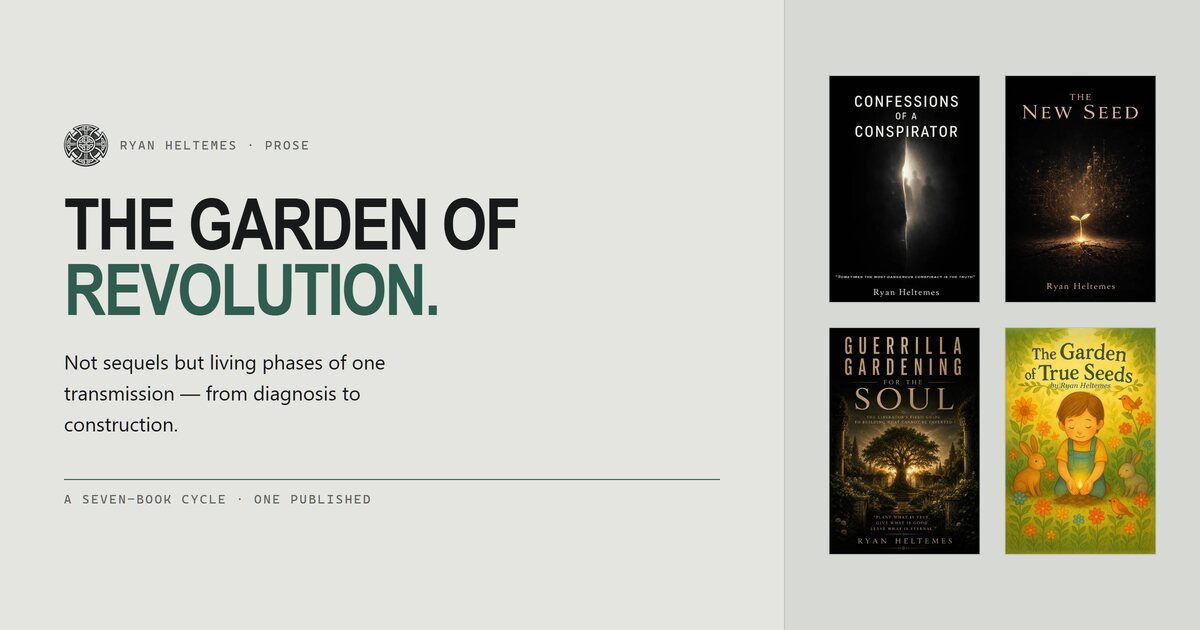
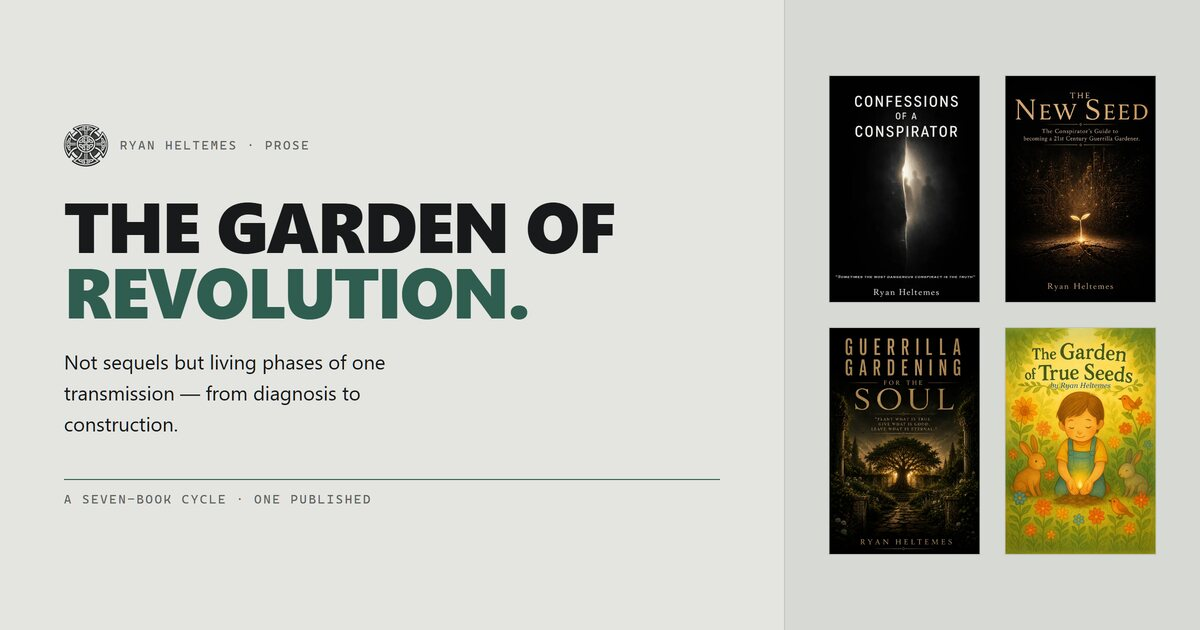
Blocky display face, and the whole lock-up justified
Two changes, both his call.

SH!T. is now justified edge to edge like COOL, so all three lines end flush and
the headline is one solid rectangle instead of a ragged stack. Same mechanism —
one letter per span, flex space-between — with the full stop riding on the T
rather than being spread off on its own at the right edge.

The display face is Arial Black, not Helvetica turned bold. Still no webfont:
it ships with Windows and macOS, and the stack falls through Franklin Gothic
Heavy and Impact to the system face before it gives up. It applies everywhere
--font-display already did — hero, group headings, work names, the book pages,
the cards — because a blocky hero over Helvetica headings reads as broken.

Two traps this face sets, both now written down where they bite:

  - On Windows, Chrome maps "Arial Black" into the Arial family, so asking it
    for weight 400 or 700 hands back ordinary Arial. Every --font-display use
    now pairs with --weight-black (900); --weight-bold is gone, and it was only
    ever used on that face. The thin COOL rule gets its own --font-display-thin,
    because a family with one weight cannot supply a light one.
  - A wider face re-flows all five share cards. Every one re-rendered and
    checked; og-aletheia-papers dropped 1.55 -> 1.45 to keep its right margin.
    All five cache-busters bumped, not just the home card's.

diff --git a/index.css b/index.css
@@ -29,7 +29,7 @@
 .hero-line {
   font-family: var(--font-display);
   font-size: var(--step-display);
-  font-weight: var(--weight-bold);
+  font-weight: var(--weight-black);
   line-height: var(--leading-tight);
   letter-spacing: var(--track-display);
   text-transform: uppercase;
@@ -38,28 +38,35 @@
   margin: 0;
 }
 
-.hero-line em {
-  font-style: normal;
-  color: var(--accent);
-}
-
-/* The middle word is set thin and spread edge to edge so it reads as a RULE
-   dividing the two heavy words, not as a third one. Flex is what stretches it:
-   no CSS justifies the letters of a single word, so each letter is its own
-   item and space-between does the spacing. The letter spans carry no
-   whitespace between them, so the accessible name is still "I build cool
-   sh!t." Body leading, not the display's 0.92, is what opens the air above and
-   below the rule — it needs to breathe or it reads as a squashed line of type.
-   Mirrored in the share card: _source-assets/og/card.css .headline .rule.
-   Change one, change both. */
-.hero-rule {
+/* The two lower lines are JUSTIFIED — spread edge to edge to the width "I
+   build" sets — so the three stack into one solid rectangle. Flex is what does
+   it: nothing in CSS justifies the letters of a single word, so each letter is
+   its own item and space-between distributes the slack. The letter spans carry
+   no whitespace between them, so the accessible name is still "I build cool
+   sh!t." Mirrored in the share card: _source-assets/og/card.css .headline
+   .rule / .turn. Change one, change both. */
+.hero-rule,
+.hero-turn {
   display: flex;
   justify-content: space-between;
+  letter-spacing: normal;
+}
+
+/* "cool" is the RULE dividing the two heavy words rather than a third one:
+   thin, black, and spread furthest because it has the least ink to spend on
+   the same width. Body leading, not the display's 0.92, is what opens the air
+   above and below it — it needs to breathe or it reads as a squashed line. */
+.hero-rule {
+  font-family: var(--font-display-thin);
   font-size: calc(var(--step-display) * 0.3);
   font-weight: var(--weight-normal);
   line-height: var(--leading-body);
-  letter-spacing: normal;
   color: var(--ink);
+}
+
+.hero-turn {
+  font-style: normal;
+  color: var(--accent);
 }
 
 .hero-sub {
@@ -108,7 +115,7 @@
 .group-name {
   font-family: var(--font-display);
   font-size: var(--step-2);
-  font-weight: var(--weight-bold);
+  font-weight: var(--weight-black);
   letter-spacing: var(--track-display);
   text-transform: uppercase;
   margin: 0;
@@ -138,7 +145,7 @@
 .work-name {
   font-family: var(--font-display);
   font-size: var(--step-1);
-  font-weight: var(--weight-bold);
+  font-weight: var(--weight-black);
   line-height: var(--leading-tight);
   letter-spacing: var(--track-display);
   text-transform: uppercase;

diff --git a/index.html b/index.html
@@ -10,7 +10,7 @@
 <meta property="og:description" content="One person, Montana. An AI council, a stove company, a glow-in-the-dark trail marker, six published books and a research series. Software, sheet steel, chemistry, herbs and prose.">
 <meta property="og:type" content="website">
 <meta property="og:url" content="https://ryan-heltemes.com/">
-<meta property="og:image" content="https://ryan-heltemes.com/assets/og/og-card.jpg?3">
+<meta property="og:image" content="https://ryan-heltemes.com/assets/og/og-card.jpg?4">
 <meta property="og:image:width" content="1200">
 <meta property="og:image:height" content="630">
 <meta property="og:image:alt" content="Ryan Heltemes against a Montana sunset — I build cool sh!t. Software, steel, chemistry, botany, prose, research.">
@@ -18,7 +18,7 @@
 <meta name="twitter:card" content="summary_large_image">
 <meta name="twitter:title" content="Ryan Heltemes — I build cool sh!t.">
 <meta name="twitter:description" content="One person, Montana. An AI council, a stove company, a glow-in-the-dark trail marker, six published books and a research series.">
-<meta name="twitter:image" content="https://ryan-heltemes.com/assets/og/og-card.jpg?3">
+<meta name="twitter:image" content="https://ryan-heltemes.com/assets/og/og-card.jpg?4">
 
 <!-- His own Celtic-cross belt buckle — the one he is wearing in the portrait below.
      favicon.ico carries 16/32/48. The 16 is a separate, contrast-boosted render:
@@ -54,15 +54,17 @@
        The thesis: the range IS the story. -->
   <section class="hero wrap">
    <div class="hero-text">
-    <!-- Three lines, and the middle one is the point: "cool" is set thin and
-         justified edge to edge so it reads as a RULE between the two heavy
-         words. One letter per span because nothing in CSS justifies the letters
-         of a single word — see .hero-rule in index.css. No whitespace between
+    <!-- One justified rectangle. "I build" is the natural-width line and sets
+         how wide the block is; the two below it are spread edge to edge to
+         match, "cool" thin so it reads as the RULE dividing them. One letter
+         per span because nothing in CSS justifies the letters of a single word
+         — see .hero-rule / .hero-turn in index.css. The full stop rides with
+         the T rather than being spread off on its own. No whitespace between
          the spans, so this still reads as "I build cool sh!t." -->
     <h1 class="hero-line rise">
       I build
       <span class="hero-rule"><span>c</span><span>o</span><span>o</span><span>l</span></span>
-      <em>sh!t.</em>
+      <em class="hero-turn"><span>s</span><span>h</span><span>!</span><span>t.</span></em>
     </h1>
 
     <p class="hero-sub rise rise-2">

diff --git a/tokens.css b/tokens.css
@@ -32,7 +32,20 @@
      design.md section 4. Until then the character comes from TREATMENT —
      scale, tracking, tight leading — and from the monospace utility face,
      which is genuinely distinctive and ships everywhere. */
-  --font-display: "Helvetica Neue", "Arial Narrow", Inter, system-ui, sans-serif;
+     The display face is deliberately BLOCKY — Arial Black, a slab of a
+     grotesque, not Helvetica turned bold. It is the loudest thing this site
+     owns and it still costs no request: Arial Black ships with Windows and
+     macOS. Where it does not exist (iOS, most Linux) the stack falls to
+     another heavy face and finally to the system face at --weight-black, so
+     the headline stays a solid mass rather than collapsing to a light one.
+     ⚠ ALWAYS pair --font-display with --weight-black. On Windows, Chrome maps
+     "Arial Black" into the Arial family, so asking it for weight 400 or 700
+     silently hands back ordinary Arial and the blockiness vanishes. */
+  --font-display: "Arial Black", "Helvetica Black", "Franklin Gothic Heavy", Impact, system-ui, sans-serif;
+  /* The one place display type is NOT black: the thin rule in the headline,
+     which needs a family that actually HAS a light weight. Asking the black
+     face for one gets a bolder letter than intended, per the warning above. */
+  --font-display-thin: "Helvetica Neue", Arial, Helvetica, system-ui, sans-serif;
   --font-body:    system-ui, -apple-system, "Segoe UI", Roboto, sans-serif;
   --font-util:    ui-monospace, "Cascadia Mono", Consolas, "SF Mono", Menlo, monospace;
 
@@ -60,7 +73,9 @@
 
   --weight-normal: 400;
   --weight-mid:    500;
-  --weight-bold:   700;
+  /* Display type is set at 900, never 700 — see the warning on --font-display.
+     Every use of that face pairs with this; nothing else in the site is bold. */
+  --weight-black:  900;
 
   /* --- Space -------------------------------------------------------------- */
   --space-1: 0.375rem;

diff --git a/garden-of-revolution.html b/garden-of-revolution.html
@@ -10,7 +10,7 @@
 <meta property="og:description" content="Not sequels but living phases of one transmission: from diagnosis to construction, and what a person can build that cannot be turned against them.">
 <meta property="og:type" content="website">
 <meta property="og:url" content="https://ryan-heltemes.com/garden-of-revolution.html">
-<meta property="og:image" content="https://ryan-heltemes.com/assets/og/og-garden-of-revolution.jpg?2">
+<meta property="og:image" content="https://ryan-heltemes.com/assets/og/og-garden-of-revolution.jpg?3">
 <meta property="og:image:width" content="1200">
 <meta property="og:image:height" content="630">
 <meta property="og:image:alt" content="The Garden of Revolution — covers from the seven-book cycle.">
@@ -18,7 +18,7 @@
 <meta name="twitter:card" content="summary_large_image">
 <meta name="twitter:title" content="The Garden of Revolution — a seven-book cycle">
 <meta name="twitter:description" content="Not sequels but living phases of one transmission: from diagnosis to construction.">
-<meta name="twitter:image" content="https://ryan-heltemes.com/assets/og/og-garden-of-revolution.jpg?2">
+<meta name="twitter:image" content="https://ryan-heltemes.com/assets/og/og-garden-of-revolution.jpg?3">
 
 <link rel="icon" href="favicon.ico" sizes="16x16 32x32 48x48">
 <link rel="icon" type="image/png" sizes="32x32" href="assets/icons/favicon-32.png">

diff --git a/aletheia-papers.html b/aletheia-papers.html
@@ -10,7 +10,7 @@
 <meta property="og:description" content="Research into how symbolically dense language shapes a model&#39;s interpretive posture before it reasons. 44 documents, free, direct download.">
 <meta property="og:type" content="website">
 <meta property="og:url" content="https://ryan-heltemes.com/aletheia-papers.html">
-<meta property="og:image" content="https://ryan-heltemes.com/assets/og/og-aletheia-papers.jpg?3">
+<meta property="og:image" content="https://ryan-heltemes.com/assets/og/og-aletheia-papers.jpg?4">
 <meta property="og:image:width" content="1200">
 <meta property="og:image:height" content="630">
 <meta property="og:image:alt" content="The Aletheia Papers — a research series on interpretive governance in large language models.">
@@ -18,7 +18,7 @@
 <meta name="twitter:card" content="summary_large_image">
 <meta name="twitter:title" content="The Aletheia Papers">
 <meta name="twitter:description" content="44 documents on interpretive governance in large language models. Free, no signup, direct download.">
-<meta name="twitter:image" content="https://ryan-heltemes.com/assets/og/og-aletheia-papers.jpg?3">
+<meta name="twitter:image" content="https://ryan-heltemes.com/assets/og/og-aletheia-papers.jpg?4">
 
 <link rel="icon" href="favicon.ico" sizes="16x16 32x32 48x48">
 <link rel="icon" type="image/png" sizes="32x32" href="assets/icons/favicon-32.png">

diff --git a/the-hole.html b/the-hole.html
@@ -10,7 +10,7 @@
 <meta property="og:description" content="The galaxy dies; greed survives. One catastrophe, four sets of eyes. Complete in four volumes.">
 <meta property="og:type" content="website">
 <meta property="og:url" content="https://ryan-heltemes.com/the-hole.html">
-<meta property="og:image" content="https://ryan-heltemes.com/assets/og/og-the-hole.jpg?2">
+<meta property="og:image" content="https://ryan-heltemes.com/assets/og/og-the-hole.jpg?3">
 <meta property="og:image:width" content="1200">
 <meta property="og:image:height" content="630">
 <meta property="og:image:alt" content="The Hole — four volumes, the four covers side by side.">
@@ -18,7 +18,7 @@
 <meta name="twitter:card" content="summary_large_image">
 <meta name="twitter:title" content="The Hole — a four-book series">
 <meta name="twitter:description" content="The galaxy dies; greed survives. One catastrophe, four sets of eyes. Complete in four volumes.">
-<meta name="twitter:image" content="https://ryan-heltemes.com/assets/og/og-the-hole.jpg?2">
+<meta name="twitter:image" content="https://ryan-heltemes.com/assets/og/og-the-hole.jpg?3">
 
 <link rel="icon" href="favicon.ico" sizes="16x16 32x32 48x48">
 <link rel="icon" type="image/png" sizes="32x32" href="assets/icons/favicon-32.png">

diff --git a/bookshelf.html b/bookshelf.html
@@ -10,7 +10,7 @@
 <meta property="og:description" content="Twelve books across two series and a standalone comedy.">
 <meta property="og:type" content="website">
 <meta property="og:url" content="https://ryan-heltemes.com/bookshelf.html">
-<meta property="og:image" content="https://ryan-heltemes.com/assets/og/og-bookshelf.jpg?2">
+<meta property="og:image" content="https://ryan-heltemes.com/assets/og/og-bookshelf.jpg?3">
 <meta property="og:image:width" content="1200">
 <meta property="og:image:height" content="630">
 <meta property="og:image:alt" content="Twelve books, six published — covers from The Hole, The Garden of Revolution and How I Met My Monkey.">
@@ -18,7 +18,7 @@
 <meta name="twitter:card" content="summary_large_image">
 <meta name="twitter:title" content="Bookshelf — Ryan Heltemes">
 <meta name="twitter:description" content="Twelve books across two series and a standalone comedy.">
-<meta name="twitter:image" content="https://ryan-heltemes.com/assets/og/og-bookshelf.jpg?2">
+<meta name="twitter:image" content="https://ryan-heltemes.com/assets/og/og-bookshelf.jpg?3">
 
 <link rel="icon" href="favicon.ico" sizes="16x16 32x32 48x48">
 <link rel="icon" type="image/png" sizes="32x32" href="assets/icons/favicon-32.png">

diff --git a/bookshelf.css b/bookshelf.css
@@ -12,7 +12,7 @@
 .page-title {
   font-family: var(--font-display);
   font-size: var(--step-display);
-  font-weight: var(--weight-bold);
+  font-weight: var(--weight-black);
   line-height: var(--leading-tight);
   letter-spacing: var(--track-display);
   text-transform: uppercase;
@@ -43,7 +43,7 @@
 .series-name {
   font-family: var(--font-display);
   font-size: var(--step-2);
-  font-weight: var(--weight-bold);
+  font-weight: var(--weight-black);
   letter-spacing: var(--track-display);
   text-transform: uppercase;
   margin: 0;
@@ -97,7 +97,7 @@
 .shelf-name {
   font-family: var(--font-display);
   font-size: var(--step-1);
-  font-weight: var(--weight-bold);
+  font-weight: var(--weight-black);
   line-height: var(--leading-tight);
   letter-spacing: var(--track-display);
   text-transform: uppercase;

diff --git a/style.css b/style.css
@@ -161,7 +161,7 @@ a { color: inherit; }
 .entry-title {
   font-family: var(--font-display);
   font-size: var(--step-3);
-  font-weight: var(--weight-bold);
+  font-weight: var(--weight-black);
   line-height: var(--leading-tight);
   letter-spacing: var(--track-display);
   text-transform: uppercase;
